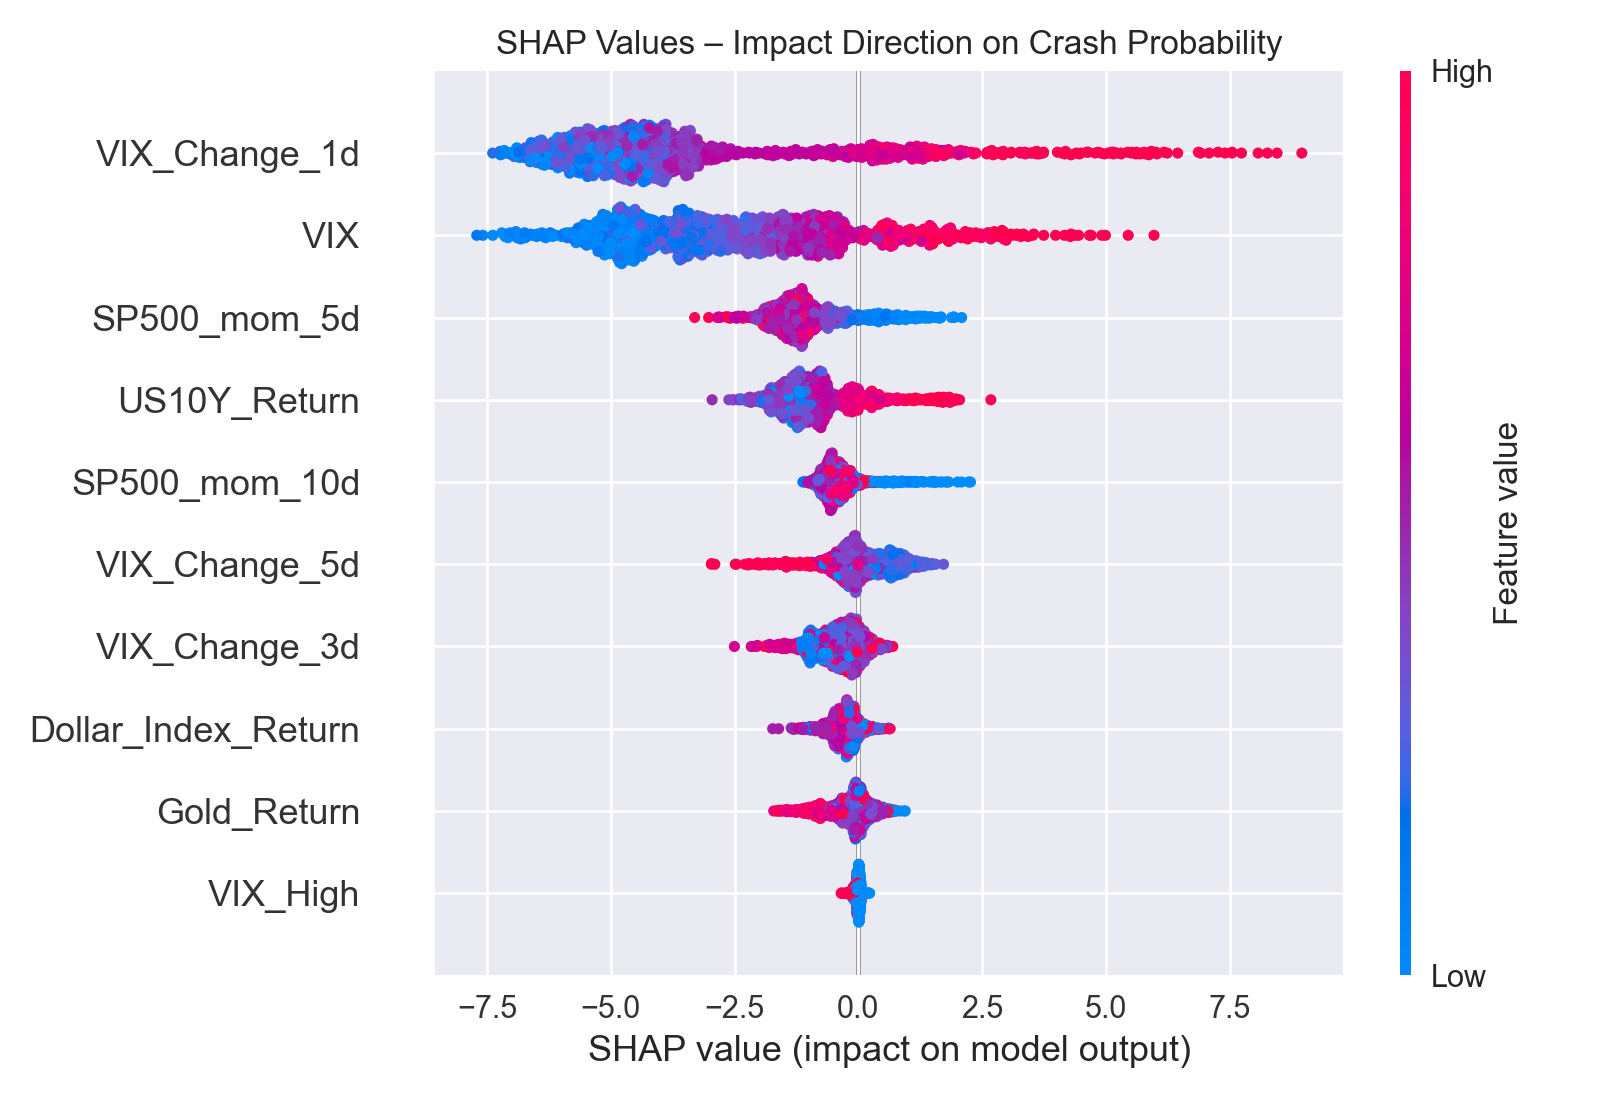
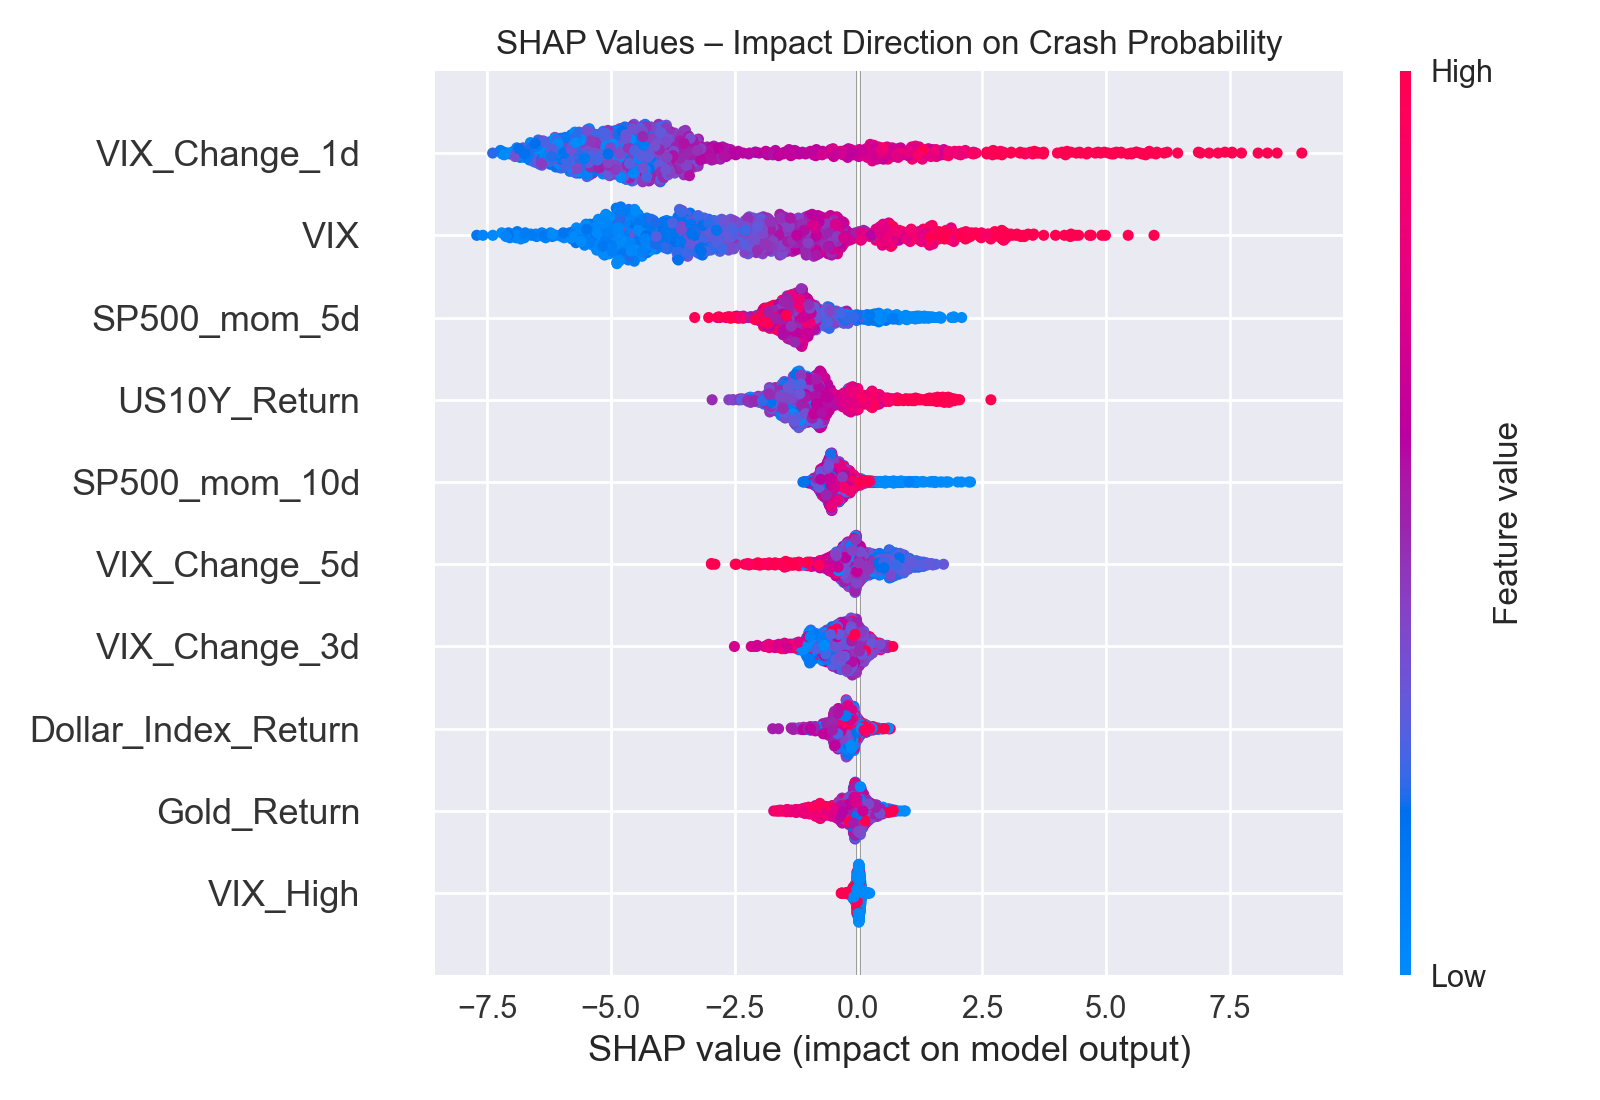
final commit

diff --git a/src/ml_crash_detection_and_clustering.py b/src/ml_crash_detection_and_clustering.py
@@ -126,13 +126,13 @@ shap.summary_plot(shap_values, X_test, plot_type="bar", max_display=10, show=Fal
 plt.title("Feature Importance (SHAP) – Drivers of Crash Alerts")
 plt.tight_layout()
 plt.savefig("results/shap_feature_importance_bar.png", dpi=200)
-plt.show()
+plt.close()
 
 shap.summary_plot(shap_values, X_test, show=False)
 plt.title("SHAP Values – Impact Direction on Crash Probability")
 plt.tight_layout()
 plt.savefig("results/shap_summary_beeswarm.png", dpi=200)
-plt.show()
+plt.close()
 
 
 # =============================================================================
@@ -244,7 +244,7 @@ plt.title('Elbow Method')
 plt.xlabel('Number of Clusters')
 plt.ylabel('Inertia')
 plt.savefig("results/kmeans_elbow_method.png", dpi=200)
-plt.show()
+plt.close()
 
 
 # k=3 clusters
@@ -274,7 +274,7 @@ plt.ylabel(f'PC2 ({pca.explained_variance_ratio_[1]:.1%} variance)')
 plt.colorbar(label='Crisis type')
 plt.grid(True, alpha=0.3)
 plt.savefig("results/kmeans_pca_clusters.png", dpi=200)
-plt.show()
+plt.close()
 
 # =============================================================================
 # 7. LSTM — Deep Learning Model for Crash Prediction
@@ -328,9 +328,9 @@ X_test_lstm  = scaler_lstm.transform(X_test_lstm)
 
 
 # =============================================================================
-# 7.4 SEQUENCE GENERATION (Rolling Window of 60 Days)
+# 7.4 SEQUENCE GENERATION
 # =============================================================================
-# LSTM requires 3D input: [samples, time_steps, features]
+
 
 SEQ_LEN = 60
 
@@ -351,7 +351,7 @@ print(f"Test  LSTM sequences : {X_test_seq.shape}")
 # =============================================================================
 # 7.5 LSTM MODEL ARCHITECTURE
 # =============================================================================
-# Robust, simple architecture for noisy financial time series.
+
 
 tf.random.set_seed(42)
 
@@ -385,7 +385,7 @@ history = model.fit(
 # =============================================================================
 # 7.6 LSTM PREDICTION
 # =============================================================================
-# Crash classification = Top 10% highest predicted probabilities.
+
 
 proba_lstm = model.predict(X_test_seq).flatten()
 
@@ -495,4 +495,4 @@ plt.ylabel("Recall (0 → 1)")
 plt.grid(axis='y', linestyle='--', alpha=0.4)
 plt.ylim(0, 1)
 plt.savefig("results/model_comparison_recall.png", dpi=200)
-plt.show()
+plt.close()

diff --git a/src/global_analysis.py b/src/global_analysis.py
@@ -49,7 +49,7 @@ plt.figure(figsize=(10,6))
 sns.heatmap(data[cols].corr(), annot=True, cmap="coolwarm", fmt=".2f")
 plt.title("Correlation Matrix (2000–2025)")
 plt.savefig("results/correlation_matrix.png", dpi=200)
-plt.show()
+plt.close()
 
 
 # ===============================================================
@@ -101,7 +101,7 @@ plt.ylabel("VIX Level")
 plt.legend(loc="upper left", fontsize=9)
 plt.grid(True)
 plt.savefig("results/vix_stress_detection.png", dpi=200)
-plt.show()
+plt.close()
 
 
 # ===============================================================
@@ -122,7 +122,7 @@ rows = []
 for crisis, (start, end) in crises.items():
     sub = returns.loc[start:end]
 
-    # Cumulative growth = (1+r1)*(1+r2)*... - 1
+    # Cumulative growth
     cum = (1 + sub[ret_cols]).prod() - 1
 
     # Daily volatility
@@ -157,7 +157,7 @@ print(crisis_summary.round(3).to_string())
 crisis_summary.to_csv("results/crisis_summary.csv")
 
 # ===============================================================
-# 4) CUMULATIVE GROWTH CHARTS (Gold + SP500 + DXY)
+# 4) CUMULATIVE GROWTH CHARTS
 # ===============================================================
 
 # Cumulative growth function
@@ -183,4 +183,4 @@ for ax, (crisis, (start, end)) in zip(axes, crises.items()):
 
 plt.tight_layout()
 plt.savefig("results/cumulative_growth_crises.png", dpi=200)
-plt.show()
+plt.close()

diff --git a/src/linear_regression.py b/src/linear_regression.py
@@ -117,7 +117,7 @@ for asset_name, y_col in models.items():
             "R_squared": round(model.rsquared, 4)
         })
 
-# Final table identical to your structure
+# Final table
 crisis_reg_table = pd.DataFrame(
     rows,
     columns=["Asset", "Crisis", "Beta_SP500", "Pvalue_SP500", "R_squared"]
@@ -227,7 +227,7 @@ plt.legend(fontsize=12)
 plt.grid(True, alpha=0.3)
 plt.tight_layout()
 plt.savefig("results/scatter_gold_vs_sp500.png", dpi=200)
-plt.show()
+plt.close()
 
 
 # -------------------------------------------------
@@ -257,7 +257,7 @@ plt.legend(fontsize=12)
 plt.grid(True, alpha=0.3)
 plt.tight_layout()
 plt.savefig("results/scatter_dxy_vs_sp500.png", dpi=200)
-plt.show()
+plt.close()
 
 
 # -------------------------------------------------
@@ -287,7 +287,7 @@ plt.legend(fontsize=12)
 plt.grid(True, alpha=0.3)
 plt.tight_layout()
 plt.savefig("results/scatter_us10y_vs_sp500.png", dpi=200)
-plt.show()
+plt.close()
 
 
 # ===============================================================

diff --git a/src/importing_and_preparing_data.py b/src/importing_and_preparing_data.py
@@ -154,11 +154,11 @@ for (title, path), ax in zip(datasets, axes.flat):
 
 plt.tight_layout(rect=[0, 0, 1, 0.96])
 plt.savefig("results/economic_indicators_2000_2025.png", dpi=200)
-plt.show()
+plt.close()
 
 
 # ===============================================================
-# 3) MERGING ALL DAILY SERIES INTO ONE MASTER FILE
+# 3) MERGING ALL DAILY SERIES INTO ONE FILE
 # ===============================================================
 
 # Generic function for loading a daily CSV file

diff --git a/main.py b/main.py
@@ -11,9 +11,9 @@ scripts_to_run = [
 print("\n============== SAFE HAVEN FULL PIPELINE EXECUTION ==============\n")
 
 for script in scripts_to_run:
-    print(f"\n➡  Running script: {script}")
+    print(f"\n Running script: {script}")
     runpy.run_path(script)
-    print(f"✔  Finished: {script}")
+    print(f" Finished: {script}")
     time.sleep(1)
 
 print("\n======================= PIPELINE COMPLETE =======================\n")

diff --git a/README.md b/README.md
@@ -46,8 +46,14 @@ Main processed file used in the pipeline:
 #### Create environment -> ⚠ Requires Python 3.12 (not compatible with 3.13)
 python3.12 -m venv .venv
 
+(Optional) If a previous virtual environment exists:
+rm -rf .venv
+
 #### Activate (Mac/Linux)
 source .venv/bin/activate
+
+#### Activate (Windows)
+.venv\Scripts\activate
 
 #### Install dependencies
 pip install -r requirements.txt
@@ -79,6 +85,7 @@ SafeHavenAnalysis/
 │   └── ml_crash_detection_and_clustering.py
 ├── main.py
 ├── requirements.txt
+├── PROPOSAL.md
 ├── AI_Usage.md
 └── README.md
 ``` 
@@ -86,7 +93,7 @@ SafeHavenAnalysis/
 
 ## Results
 
-The analysis highlights heterogeneous safe-haven properties across assets, depending on market regimes and tail events:
+The analysis highlights heterogeneous hedge and safe-haven properties across assets, depending on market regimes and tail events:
 
 - **US Treasuries**: strongest hedge and most robust safe haven (strong protection in crises and deep tails).
 - **US Dollar (DXY)**: weak hedge on average but **systematic safe haven** during stress.
